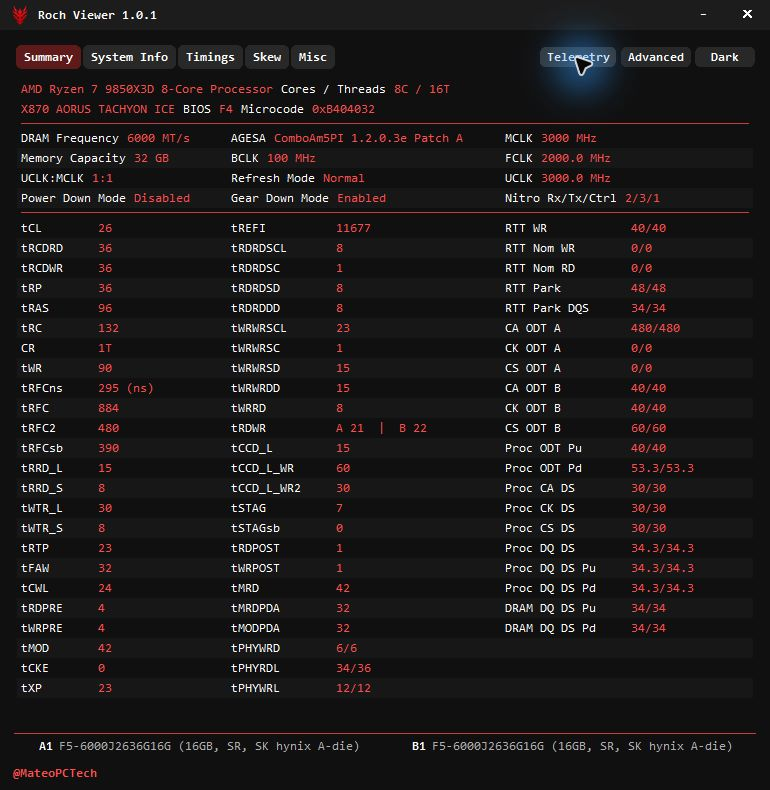
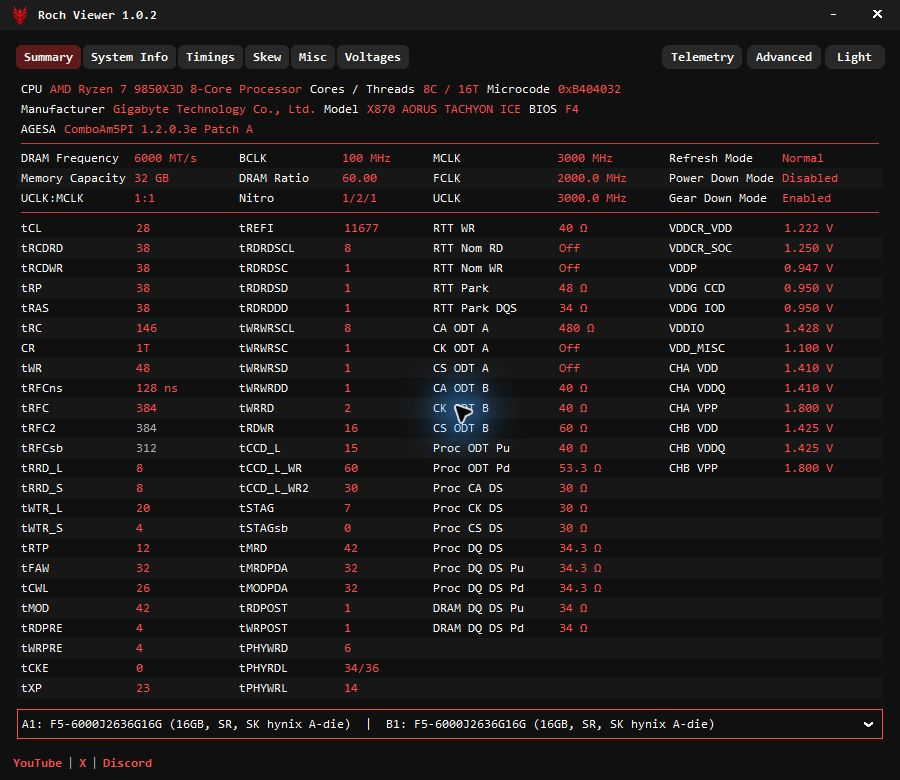
Refresh Viewer screenshots and simplify README credits

diff --git a/README.md b/README.md
@@ -34,7 +34,9 @@ Version 1.0.2 source includes the red-bordered module selector, consistent round
 
 <img src="assets/screenshots/amd-summary.png" alt="AMD Summary with per-stick RAM details" width="700">
 
-<img src="assets/screenshots/amd-telemetry.png" alt="Native AMD VDDIO and per-DIMM telemetry" width="550">
+<img src="assets/screenshots/amd-telemetry.png" alt="Native AMD clocks, temperatures, power and voltages" width="550">
+
+<img src="assets/screenshots/amd-memory-telemetry.png" alt="AMD VDDIO and per-DIMM identity, temperatures and PMIC rails" width="550">
 
 Actual updated local-build screenshots, not UI concepts. Values shown are examples, not tuning recommendations.
 
@@ -61,7 +63,6 @@ Tests: `py -3.13 -m unittest discover -s tests -t .`
 - **Highresolution Enterprises / Logix4u — InpOut32/64:** separately supplied low-level access component.
 - **[LibreHardwareMonitor](https://github.com/LibreHardwareMonitor/LibreHardwareMonitor):** board-sensor register and mapping references.
 - **Zorko — gnr-smu:** independent Granite Ridge SMU mailbox research.
-- CPU-Z, HWiNFO, VoidTimings, ASRock Timing Configurator and MemTweakIt were comparison tools during development; none is required to run Viewer.
 
 Created by **Roch Studio / MateoPCTech**.
 
